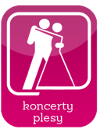
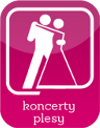
upraveny rozmery buttonku

diff --git a/www/seznam.html b/www/seznam.html
@@ -15,10 +15,10 @@
 		<div style="background-color: #ffffff" class="c1">
 			<div class="c2">
 				<img src="img/fitnesscentra.png" width="100%" />
-				<a href="clanek.html">
+				
 				<ul class="seznam">
-					<li>93 | FIT klub Jany Bočkové</li>
-					<li>94 | Expreska</li>
+					<li><a href="clanek.html">93 | FIT klub Jany Bočkové</a></li>
+					<li><a href="plakat.html">94 | Expreska</a></li>
 					<li>95 | Osobní trenér P. Pokorná</li>
 					<li>95 | Active body</li>
 					<li>95 | No tam bazen</li>
@@ -44,8 +44,6 @@
 					<li>104 | Sportovní hala Doksy</li>
 					<li>105 | Aktivity Wellnes fittness</li>
 				</ul>
-				</a>
-				
 			</div>
 		</div>
 	</div>

diff --git a/www/plakat.html b/www/plakat.html
@@ -1,0 +1,16 @@
+<!DOCTYPE html>
+<html ng-app="readerApp">
+<head>
+    <meta charset="utf-8" />
+    <meta name="format-detection" content="telephone=no" />
+    <meta name="viewport" content="user-scalable=no, initial-scale=1, maximum-scale=1, minimum-scale=1, width=device-width, height=device-height, target-densitydpi=160" />
+    <title>Kamelot - a víte kam ...</title>
+    <link rel="stylesheet" type="text/css" href="css/index.css" />
+    
+</head>
+<body>
+<div style="width:100%">
+	<img src="splash/splash.jpg" width="100%" />
+</div>
+</body>
+</html>
